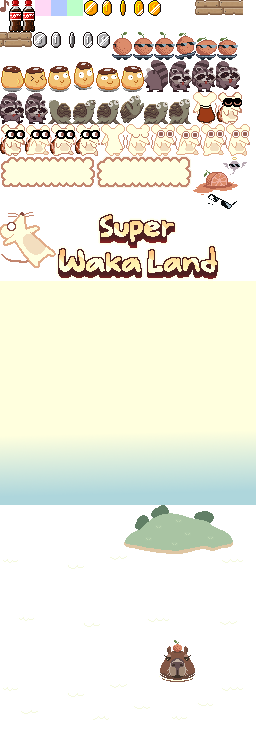
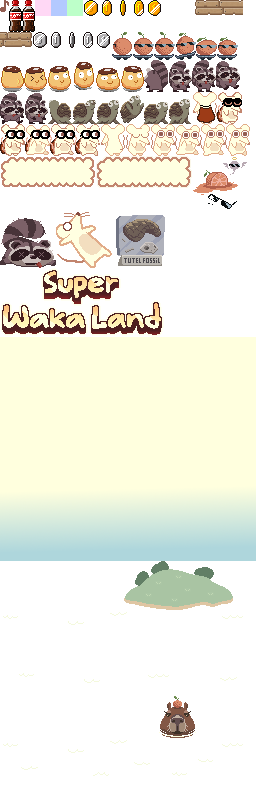
Added new death sprites

diff --git a/src/game/Player.js b/src/game/Player.js
@@ -50,7 +50,7 @@ export default class Player {
         return sprite;
       })(),
       jumpSprite: Sprite.from('racoon_jump'),
-      deadSprite: Sprite.from('rat_dead'),
+      deadSprite: Sprite.from('racoon_dead'),
     },
     {
       idleSprite: Sprite.from('tutel_idle'),
@@ -65,7 +65,7 @@ export default class Player {
         return sprite;
       })(),
       jumpSprite: Sprite.from('tutel_jump'),
-      deadSprite: Sprite.from('rat_dead'),
+      deadSprite: Sprite.from('tutel_dead'),
     },
   ];
   POWER = 1.5;
